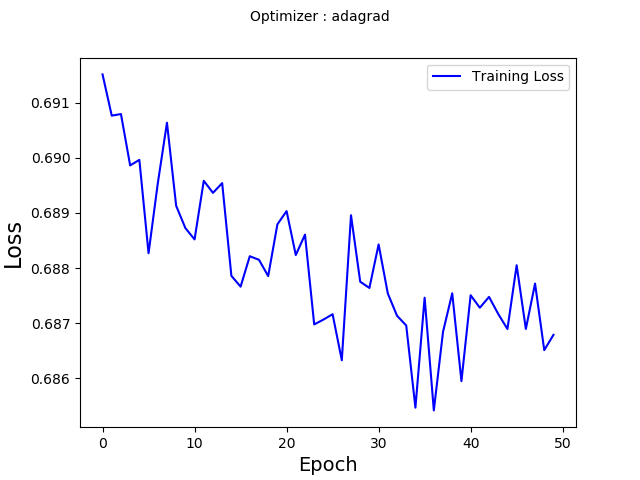
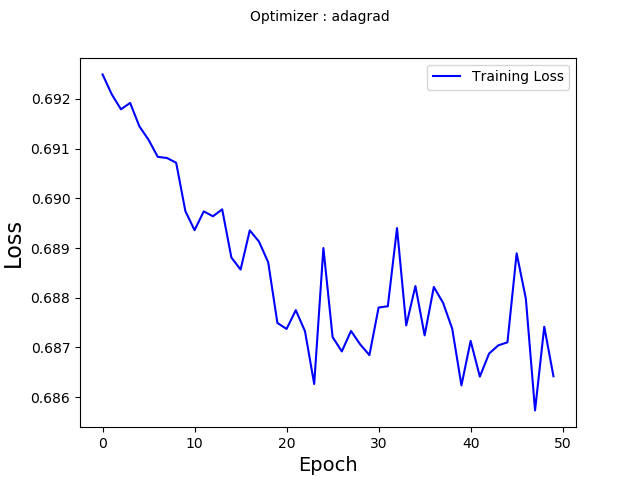
Retrain the tf-idf model

diff --git a/src/tf-idf/tf-idf_model.py b/src/tf-idf/tf-idf_model.py
@@ -17,9 +17,11 @@ from sklearn.model_selection import train_test_split
 import matplotlib.pyplot as plt
 
 # Path to file
-captions_file_path = '../../data/corpus/devset/dev-set/dev-set_video-captions-cleanup_splitted.csv'
+train_captions_file_path = '../../data/corpus/devset/dev-set/train_dev-set_video-captions-cleanup_splitted.csv'
+test_captions_file_path = '../../data/corpus/devset/dev-set/test_dev-set_video-captions-cleanup_splitted.csv'
 embeddings_file_path = '../../data/corpus/devset/dev-set/tf-idf_embeddings.csv'
-ground_truth_file_path = '../../data/corpus/devset/dev-set/ground-truth/ground-truth_dev-set_splitted.csv'
+train_ground_truth_file_path = '../../data/corpus/devset/dev-set/ground-truth/train_ground-truth_dev-set_splitted.csv'
+test_ground_truth_file_path = '../../data/corpus/devset/dev-set/ground-truth/test_ground-truth_dev-set_splitted.csv'
 
 # Path model and weights
 model_save_path = '../../models/tf-idf/tf-idf_model.json'
@@ -28,20 +30,25 @@ weight_save_path = '../../models/tf-idf/tf-idf_weight.h5'
 # Path for image
 img_file_path = '../../figures/tf-idf_train_loss_class.png'
 
+# Load dataframes
 df_embeddings = pd.read_csv(embeddings_file_path)
-df_captions = pd.read_csv(captions_file_path)
-df_ground_truth = pd.read_csv(ground_truth_file_path)
+df_train_captions = pd.read_csv(train_captions_file_path)
+df_test_captions = pd.read_csv(test_captions_file_path)
+df_train_ground_truth = pd.read_csv(train_ground_truth_file_path)
+df_test_ground_truth = pd.read_csv(test_ground_truth_file_path)
 
 # So first we get every word in our captions and stored them without repetition.
 # Filter whitespaces too.
 tokenizer = Tokenizer(filters='!"#$%&()*+,-./:;<=>?@[\\]^_`{|}~\t\n ')
-tokenizer.fit_on_texts(df_captions.captions.tolist())
+tokenizer.fit_on_texts(df_train_captions.captions.tolist())
 
 # captions to sequece
-captions_sequece = tokenizer.texts_to_sequences(df_captions.captions)
+train_captions_sequece = tokenizer.texts_to_sequences(df_train_captions.captions)
+test_captions_sequece = tokenizer.texts_to_sequences(df_test_captions.captions)
 
 # add paddings.
-captions_sequece = pad_sequences(captions_sequece)
+train_captions_sequece = pad_sequences(train_captions_sequece)
+test_captions_sequece = pad_sequences(test_captions_sequece)
 
 # Now get the embedding matrix.
 embedding_matrix = df_embeddings.iloc[:,1:].to_numpy()
@@ -53,11 +60,11 @@ def to_classifier(x) :
         return 1
     return 0
 
-Y = df_ground_truth['long-term_memorability'].apply(to_classifier).to_numpy()
+y_train = df_train_ground_truth['long-term_memorability'].apply(to_classifier).to_numpy()
+y_test = df_test_ground_truth['long-term_memorability'].apply(to_classifier).to_numpy()
 
-X = captions_sequece
-
-X_train, X_test, y_train, y_test = train_test_split(X, Y, test_size=0.4, random_state=123)
+X_train = train_captions_sequece
+X_test  = test_captions_sequece
 
 # Now define the model
 model = Sequential()

diff --git a/src/tf-idf/generate_tf-idf.py b/src/tf-idf/generate_tf-idf.py
@@ -19,14 +19,17 @@ def stopwords_remover(document):
     return result
 
 # Paths to dataset
-splitted_captions_file_path = '../../data/corpus/devset/dev-set/dev-set_video-captions-cleanup_splitted.csv'
+train_captions_file_path = '../../data/corpus/devset/dev-set/train_dev-set_video-captions-cleanup_splitted.csv'
+train_ground_truth_file_path = '../../data/corpus/devset/dev-set/ground-truth/train_ground-truth_dev-set_splitted.csv'
 tf_idf_embeddings_file_path = '../../data/corpus/devset/dev-set/tf-idf_embeddings.csv'
 
 # Load it
-df_captions = pd.read_csv(splitted_captions_file_path)
+df_train_captions = pd.read_csv(train_captions_file_path)
+df_train_ground_truth = pd.read_csv(train_ground_truth_file_path)
 
 # Split dataset in two halfs. First half are the higher memorable videos and the other half are the lower ones.
-df_high_memorable, df_low_memorable = np.split(df_captions, [int(0.5*len(df_captions))])
+df_high_memorable = df_train_captions[df_train_captions.id.isin(df_train_ground_truth[df_train_ground_truth['long-term_memorability'] > 0.7]['video'])]
+df_low_memorable = df_train_captions[df_train_captions.id.isin(df_train_ground_truth[df_train_ground_truth['long-term_memorability'] < 0.7]['video'])]
 
 # Get both documents and remove stopwords from it
 high_memorable_captions = df_high_memorable["captions"].str.cat(sep=' ')
@@ -42,7 +45,7 @@ df_tfidf = pd.DataFrame(denselist, columns=feature_names).T
 
 # Now tokenize our captions to transform each word to its respective integer
 tokenizer = Tokenizer(filters='!"#$%&()*+,-./:;<=>?@[\\]^_`{|}~\t\n ')
-tokenizer.fit_on_texts(df_captions.captions.tolist())
+tokenizer.fit_on_texts(df_train_captions.captions.tolist())
 
 # words to integer
 words_as_integers = []
